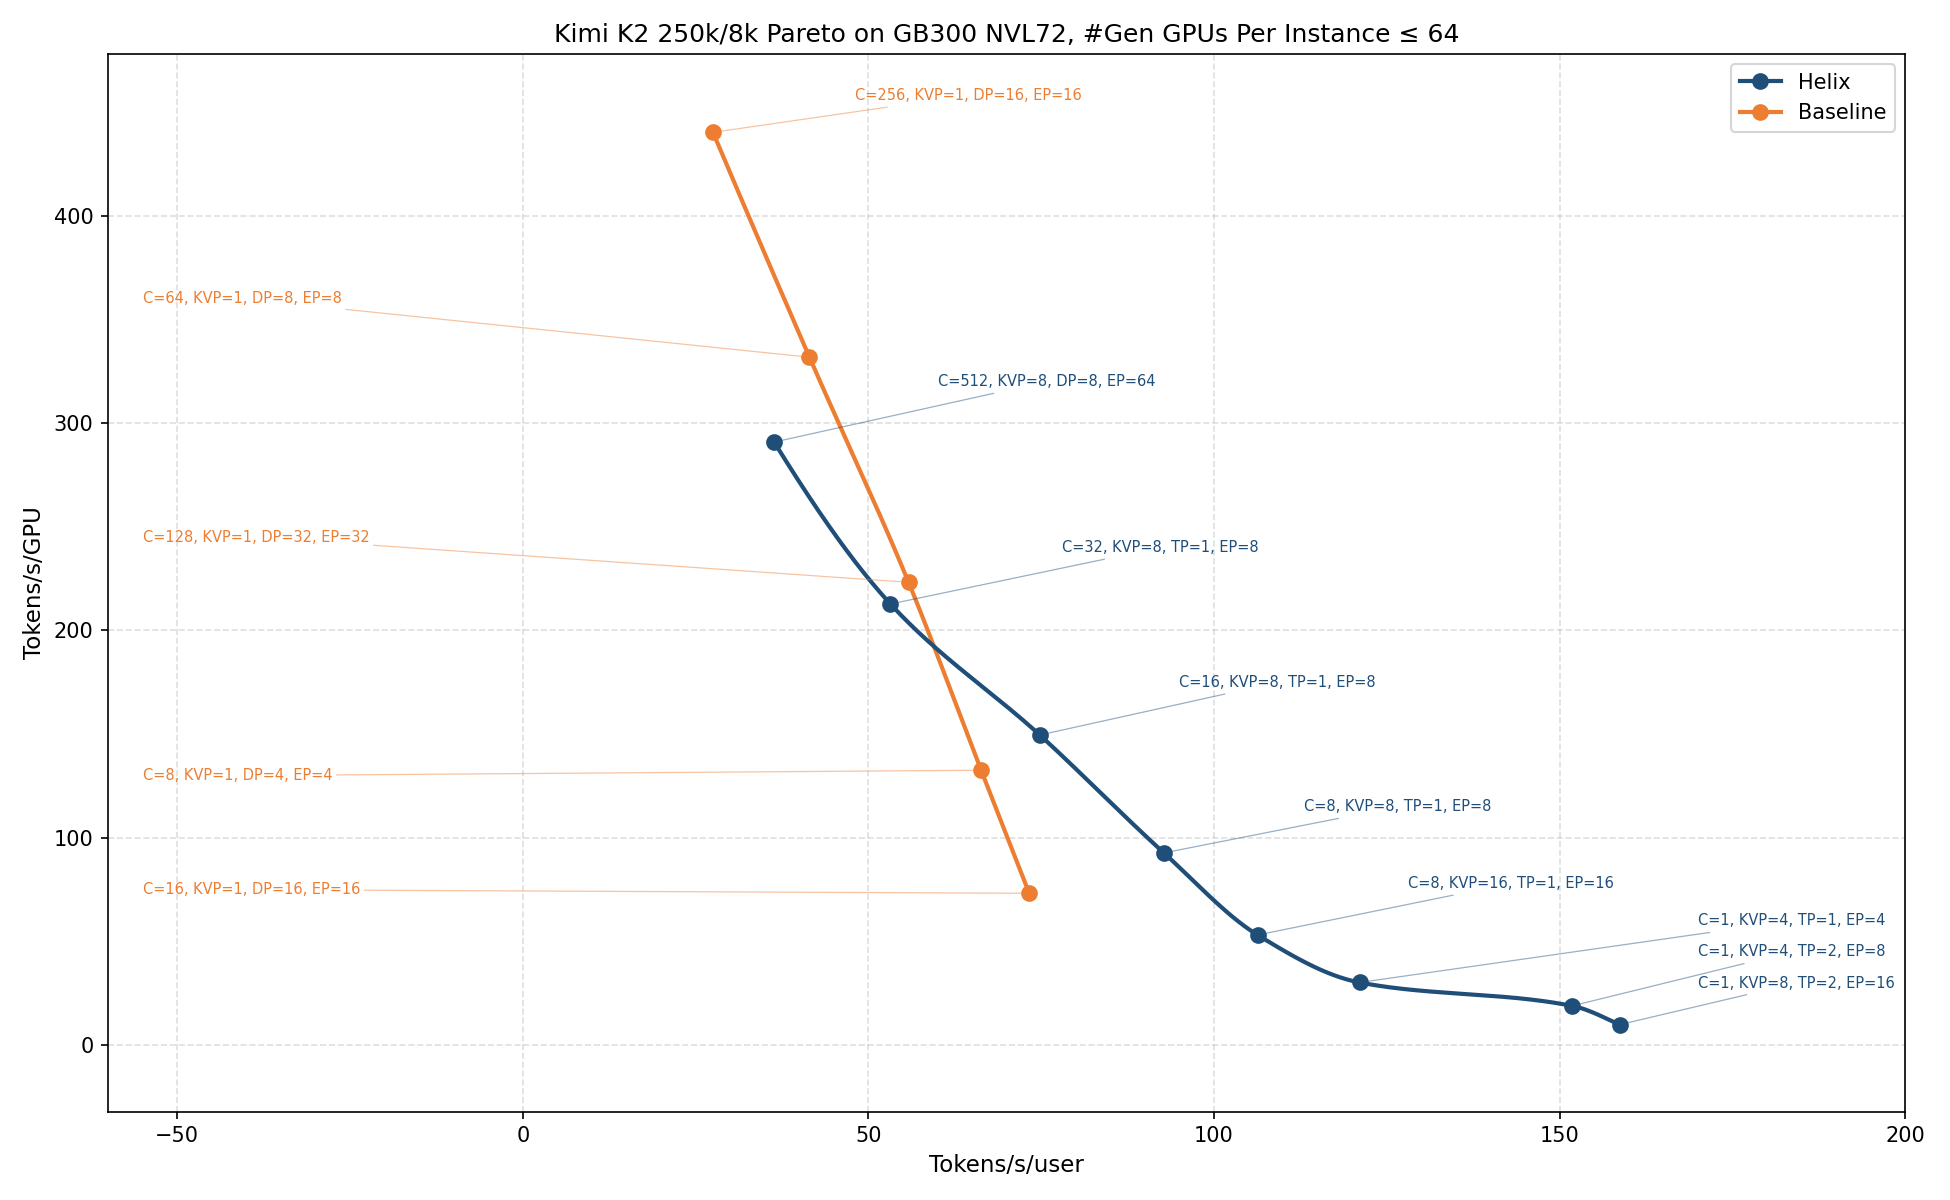
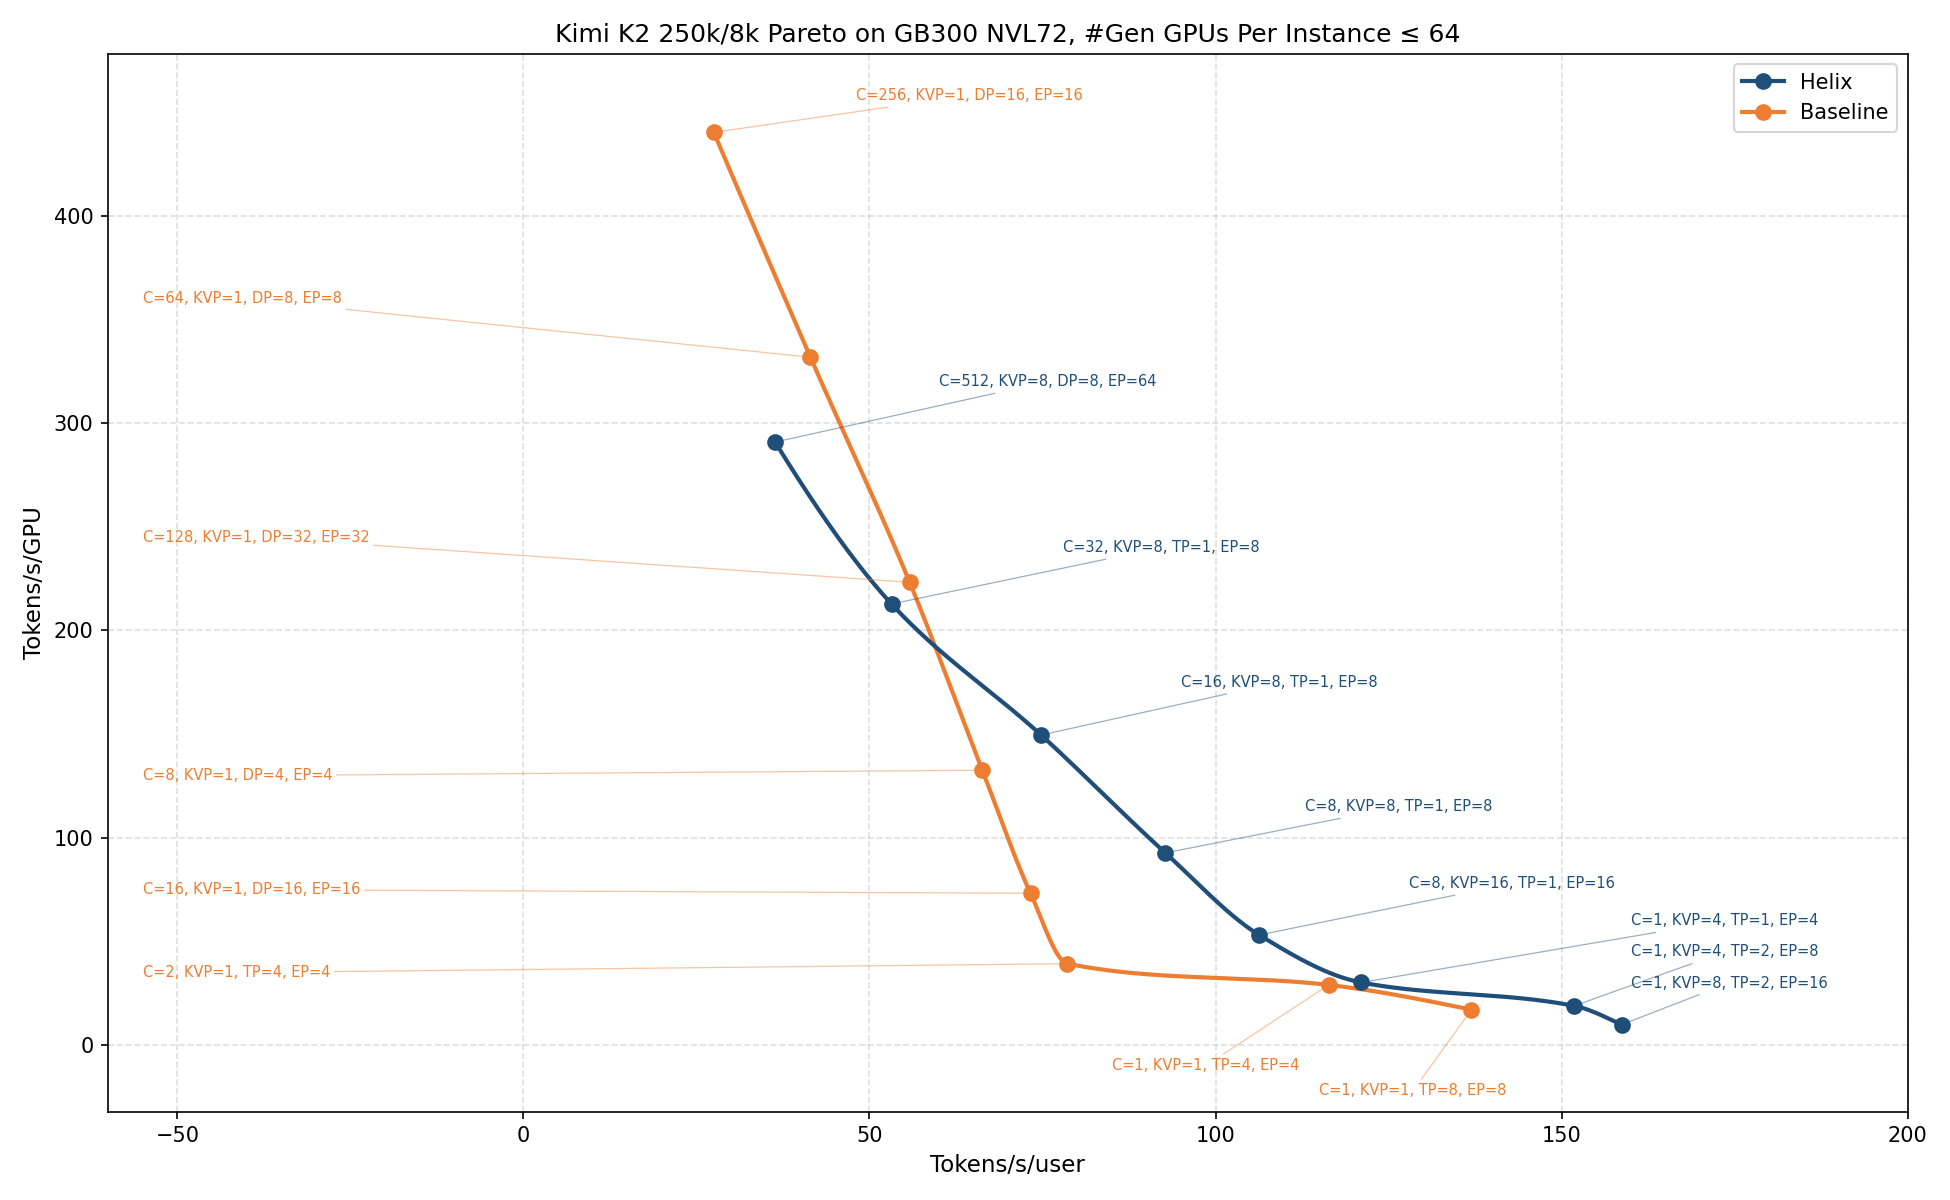
save changes to plot things side-by-side

diff --git a/docs/source/blogs/tech_blog/blog21_dsr1_kimi_k2_side_by_side.py b/docs/source/blogs/tech_blog/blog21_dsr1_kimi_k2_side_by_side.py
@@ -1,0 +1,109 @@
+# SPDX-FileCopyrightText: Copyright (c) 2026 NVIDIA CORPORATION & AFFILIATES. All rights reserved.
+# SPDX-License-Identifier: Apache-2.0
+"""Combined DSR1 FP4 + Kimi K2 Pareto plot for the Helix Parallelism blog post.
+
+Renders ``docs/source/blogs/media/tech_blog21_dsr1_kimi_k2_side_by_side.png``
+as a single figure with two panels: DSR1 FP4 on the left, Kimi K2 on the
+right. ``ParetoPoint`` instances, label-position dictionaries, and the
+``_plot_curve`` helper are imported from ``blog21_helix_pareto_plot.py`` and
+``blog21_kimi_k2_pareto_plot.py``, so any update to those datasets flows
+through automatically.
+
+Run from the repo root::
+
+    python docs/source/blogs/tech_blog/blog21_dsr1_kimi_k2_side_by_side.py
+"""
+from __future__ import annotations
+
+import importlib.util
+import sys
+from pathlib import Path
+
+import matplotlib.pyplot as plt
+from matplotlib.lines import Line2D
+
+
+def _load_module(stem: str):
+    """Load a sibling-module file by stem (e.g. ``blog21_helix_pareto_plot``).
+
+    The blog-post plotting scripts are individual files rather than a
+    package, so ``importlib`` is used to pull them in by path.
+    """
+    path = Path(__file__).parent / f"{stem}.py"
+    spec = importlib.util.spec_from_file_location(stem, path)
+    if spec is None or spec.loader is None:  # defensive; should not happen
+        raise ImportError(f"Could not load {path}")
+    mod = importlib.util.module_from_spec(spec)
+    sys.modules[stem] = mod
+    spec.loader.exec_module(mod)
+    return mod
+
+
+dsr1 = _load_module("blog21_helix_pareto_plot")
+k2 = _load_module("blog21_kimi_k2_pareto_plot")
+
+OUT_PATH = Path(__file__).resolve().parents[2] / "blogs" / "media" / \
+    "tech_blog21_dsr1_kimi_k2_side_by_side.png"
+
+HELIX_COLOR = "#1F4E79"
+BASELINE_COLOR = "#ED7D31"
+
+LEGEND_HANDLES = [
+    Line2D([0], [0], color=HELIX_COLOR, linewidth=2, marker="o",
+           markersize=7, label="Helix"),
+    Line2D([0], [0], color=BASELINE_COLOR, linewidth=2, marker="o",
+           markersize=7, label="Baseline"),
+]
+
+
+def _draw_panel(ax, mod, *, xlim, ylim, title) -> None:
+    mod._plot_curve(ax, mod.BASELINE_POINTS, BASELINE_COLOR, "o",
+                    mod.BASELINE_LABEL_POSITIONS)
+    mod._plot_curve(ax, mod.HELIX_POINTS, HELIX_COLOR, "o",
+                    mod.HELIX_LABEL_POSITIONS)
+    ax.set_xlim(*xlim)
+    ax.set_ylim(*ylim)
+    ax.set_xlabel("Tokens/s/user", fontsize=11)
+    ax.set_ylabel("Tokens/s/GPU", fontsize=11)
+    ax.set_title(title, fontsize=12)
+    ax.grid(True, linestyle="--", alpha=0.4)
+    ax.legend(handles=LEGEND_HANDLES, loc="upper right", fontsize=10)
+
+
+def main() -> None:
+    # constrained_layout packs the two panels with minimal padding while
+    # still leaving room for tick labels, axis titles, and the panel titles.
+    fig, (ax_l, ax_r) = plt.subplots(
+        1, 2, figsize=(18, 6.5), dpi=150, constrained_layout=True
+    )
+
+    # Tightened DSR1 xlim: bottom-right Helix labels now sit at x=132 (was
+    # 140 in earlier revisions); xlim right = 165 hosts the ~30 data-unit
+    # wide label text with a small visual buffer.
+    _draw_panel(
+        ax_l, dsr1,
+        xlim=(-25, 165),
+        ylim=(-10, 145),
+        title="DSR1 FP4 1M/16k Pareto on GB300 NVL72, "
+              "#Gen GPUs Per Instance=64",
+    )
+
+    # K2 has wider data range than DSR1, so each character takes more data
+    # units; the right-side label text width is ~40 data units. Bottom-right
+    # Helix labels at x=160 keep the column close to the rightmost marker
+    # (x=158.69) and fit comfortably inside xlim right = 200.
+    _draw_panel(
+        ax_r, k2,
+        xlim=(-58, 200),
+        ylim=(-32, 478),
+        title="Kimi K2 250k/8k Pareto on GB300 NVL72, "
+              "#Gen GPUs Per Instance \u2264 64",
+    )
+
+    OUT_PATH.parent.mkdir(parents=True, exist_ok=True)
+    fig.savefig(OUT_PATH, dpi=150, bbox_inches="tight", pad_inches=0.1)
+    print(f"Wrote {OUT_PATH}")
+
+
+if __name__ == "__main__":
+    main()

diff --git a/docs/source/blogs/tech_blog/blog21_kimi_k2_pareto_plot.py b/docs/source/blogs/tech_blog/blog21_kimi_k2_pareto_plot.py
@@ -63,11 +63,14 @@ HELIX_POINTS: list[ParetoPoint] = [
 
 # Baseline runs (KVP=1, no Helix).
 BASELINE_POINTS: list[ParetoPoint] = [
-    ParetoPoint("k2base-c256_dp16",   256, True, 1, 16, 1, 16, 27.51, 440.22),
-    ParetoPoint("k2base-c64_dp8",      64, True, 1,  8, 1,  8, 41.47, 331.78),
-    ParetoPoint("k2base-c128_dp32",   128, True, 1, 32, 1, 32, 55.81, 223.24),
-    ParetoPoint("k2base-c8_dp4",        8, True, 1,  4, 1,  4, 66.31, 132.61),
-    ParetoPoint("k2base-c16_dp16",     16, True, 1, 16, 1, 16, 73.27,  73.27),
+    ParetoPoint("k2base-c256_dp16",   256, True,  1, 16, 1, 16,  27.51, 440.22),
+    ParetoPoint("k2base-c64_dp8",      64, True,  1,  8, 1,  8,  41.47, 331.78),
+    ParetoPoint("k2base-c128_dp32",   128, True,  1, 32, 1, 32,  55.81, 223.24),
+    ParetoPoint("k2base-c8_dp4",        8, True,  1,  4, 1,  4,  66.31, 132.61),
+    ParetoPoint("k2base-c16_dp16",     16, True,  1, 16, 1, 16,  73.27,  73.27),
+    ParetoPoint("k2base-c2_tp4",        2, False, 1,  4, 1,  4,  78.61,  39.31),
+    ParetoPoint("k2base-c1_tp4",        1, False, 1,  4, 1,  4, 116.34,  29.09),
+    ParetoPoint("k2base-c1_tp8",        1, False, 1,  8, 1,  8, 136.97,  17.12),
 ]
 
 
@@ -88,18 +91,19 @@ HELIX_LABEL_POSITIONS = {
     "k2-c16_kvp8":      ( 95, 175, "left", "center", True),
     "k2-c8_kvp8":       (113, 115, "left", "center", True),
     "k2-c8_kvp16":      (128,  78, "left", "center", True),
-    # Bottom-right cluster (all C=1): stack labels in a tight column to the
-    # right of the markers, which sit between x=121 and x=159.
-    "k2-c1_kvp4_tp1":   (170,  60, "left", "center", True),
-    "k2-c1_kvp4_tp2":   (170,  45, "left", "center", True),
-    "k2-c1_kvp8_tp2":   (170,  30, "left", "center", True),
+    # Bottom-right cluster (all C=1): stack labels in a tight column just
+    # past the rightmost marker (x=158.69), so leaders are short and label
+    # text fits inside the side-by-side combined plot's tighter xlim.
+    "k2-c1_kvp4_tp1":   (160,  60, "left", "center", True),
+    "k2-c1_kvp4_tp2":   (160,  45, "left", "center", True),
+    "k2-c1_kvp8_tp2":   (160,  30, "left", "center", True),
 }
 
 BASELINE_LABEL_POSITIONS = {
     # Top-left point sits above all helix data, so its label can ride along
     # in the same upper-right whitespace.
     "k2base-c256_dp16": ( 48, 458, "left", "center", True),
-    # Remaining baseline points: labels in the left margin, stacked
+    # Remaining top-left baseline points: labels in the left margin, stacked
     # vertically. Leader lines stay below the helix curve except for
     # k2base-c128_dp32, whose marker sits ~3 units above the helix curve and
     # therefore unavoidably brushes it.
@@ -107,6 +111,10 @@ BASELINE_LABEL_POSITIONS = {
     "k2base-c128_dp32": (-55, 245, "left", "center", True),
     "k2base-c8_dp4":    (-55, 130, "left", "center", True),
     "k2base-c16_dp16":  (-55,  75, "left", "center", True),
+    "k2base-c2_tp4":    (-55,  35, "left", "center", True),
+    # Bottom-right baseline points - labels just below the curve.
+    "k2base-c1_tp4":    ( 85, -10, "left", "center", True),
+    "k2base-c1_tp8":    (115, -22, "left", "center", True),
 }
 
 OUT_PATH = Path(__file__).resolve().parents[2] / "blogs" / "media" / \

diff --git a/docs/source/blogs/tech_blog/blog21_helix_pareto_plot.py b/docs/source/blogs/tech_blog/blog21_helix_pareto_plot.py
@@ -88,16 +88,18 @@ HELIX_LABEL_POSITIONS = {
     # Knee of the Helix curve - label snug above-right of the marker.
     "ck-64_ctp64":       ( 55,  70, "left",   "center", True),  # C=64
     # Bottom-right cluster: stack labels in a tight column above the curve,
-    # with text starting just to the right of x=140 (close to the markers,
-    # which span x=70..132).
-    "ck-32_ctp64":       (140,  60, "left",   "center", True),  # C=32
-    "ck-16_ctp64":       (140,  47, "left",   "center", True),  # C=16
-    "ck-8_ctp64":        (140,  35, "left",   "center", True),  # C=8
-    "ck-4_cep64":        (140,  24, "left",   "center", True),  # C=4
+    # with text starting just past x=132 (the rightmost marker
+    # ck-1_ctp32tp2 sits at x=131.75). Keeping the column flush with the
+    # rightmost marker minimises leader length and ensures the label text
+    # fits inside the side-by-side combined plot's tighter xlim.
+    "ck-32_ctp64":       (132,  60, "left",   "center", True),  # C=32
+    "ck-16_ctp64":       (132,  47, "left",   "center", True),  # C=16
+    "ck-8_ctp64":        (132,  35, "left",   "center", True),  # C=8
+    "ck-4_cep64":        (132,  24, "left",   "center", True),  # C=4
     # The two C=2 points are tied (~0.3% apart) - keep only one label.
-    "ck-2_ctp8cep4tep2": (140,  14, "left",   "center", True),  # C=2 (EP=8)
+    "ck-2_ctp8cep4tep2": (132,  14, "left",   "center", True),  # C=2 (EP=8)
     "ck-2_ctp4cep8tep2": None,                                   # tied with above
-    "ck-1_ctp32tp2":     (140,   5, "left",   "center", True),  # C=1
+    "ck-1_ctp32tp2":     (132,   5, "left",   "center", True),  # C=1
 }
 
 BASELINE_LABEL_POSITIONS = {
@@ -183,7 +185,9 @@ def main() -> None:
     # xlim is extended slightly to the left so the C=256 / C=128 / C=64
     # baseline labels sit in the left margin without crossing the Helix
     # curve, which runs diagonally through the (10..50, 50..125) region.
-    ax.set_xlim(-25, 195)
+    # On the right, the bottom-right Helix label cluster ends near x=162;
+    # xlim right = 165 keeps that cluster snug with no unused whitespace.
+    ax.set_xlim(-25, 165)
     ax.set_ylim(-10, 145)
     ax.set_xlabel("Tokens/s/user", fontsize=11)
     ax.set_ylabel("Tokens/s/GPU", fontsize=11)
